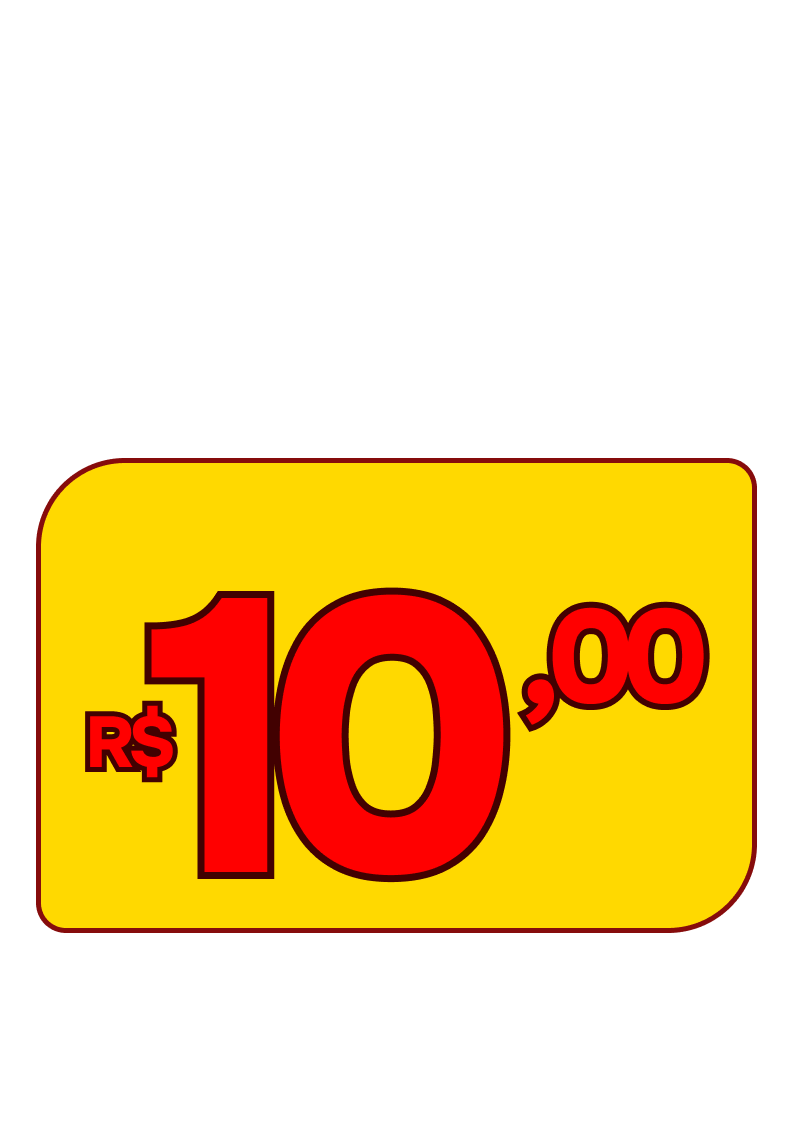
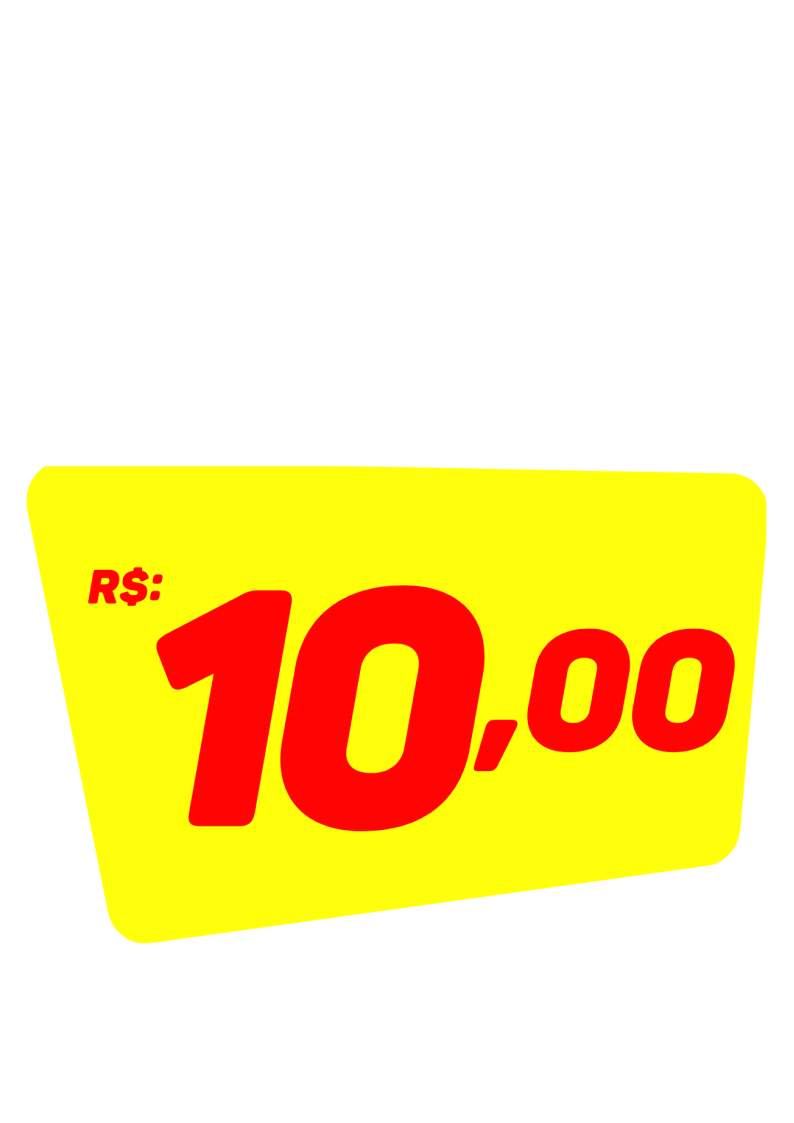
Fix: Tela Branca e Add Aba Aprenda V136

diff --git a/gerador-cartazes/src/App.jsx b/gerador-cartazes/src/App.jsx
@@ -336,7 +336,7 @@ const PosterFactory = ({ mode, onAdminReady, currentUser, factoryType = 'default
         
         // --- AQUI ESTÁ A MUDANÇA ---
         // Antes estava: if (factoryType === 'mega10') targetName = 'MEGA 10 VERTICAL';
-        if (factoryType === 'mega10') targetName = 'MEGA 10 V2'; 
+        if (factoryType === 'mega10') targetName = 'MEGA 10 PADRÃO'; 
         // ---------------------------
 
         const p = presets.find(item => item.name.trim().toUpperCase() === targetName);
